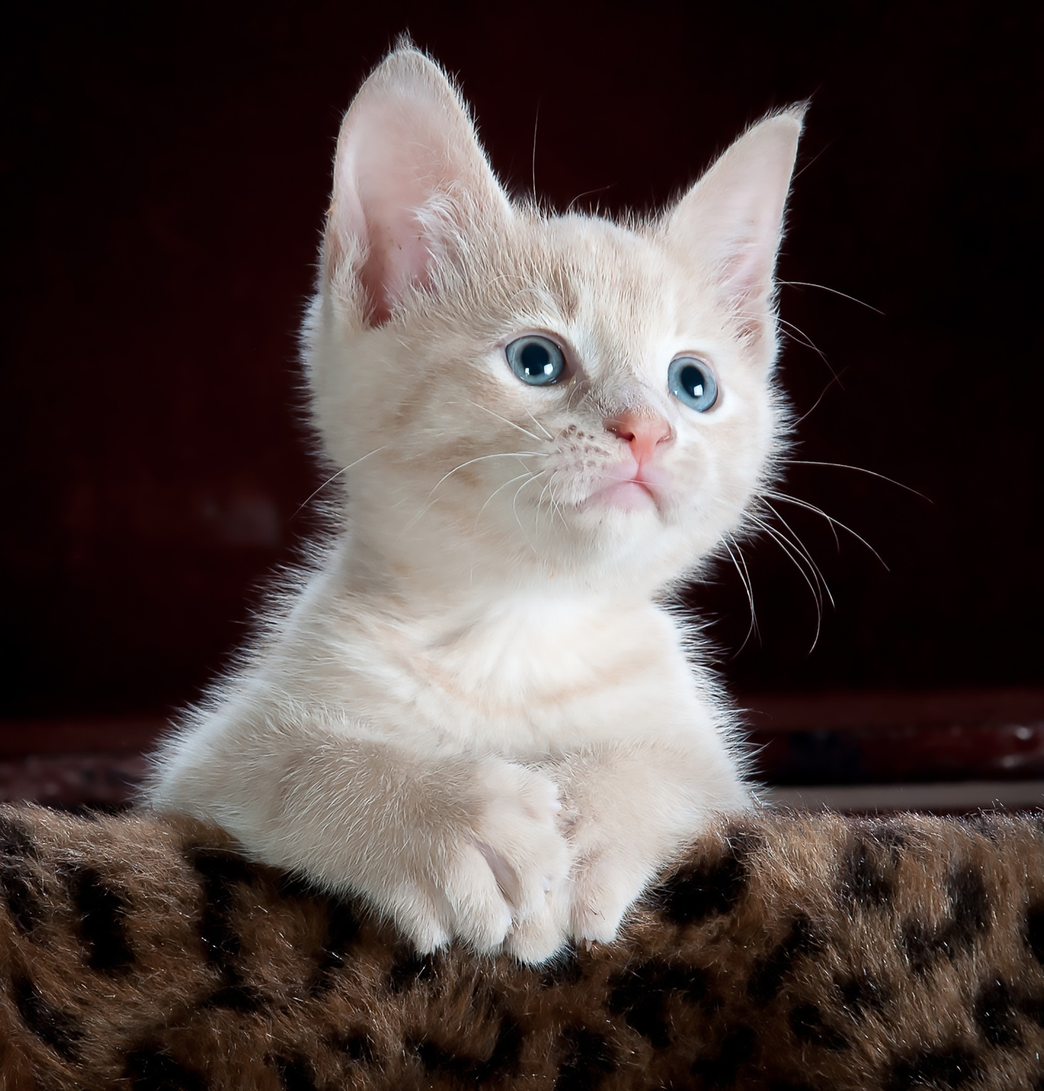
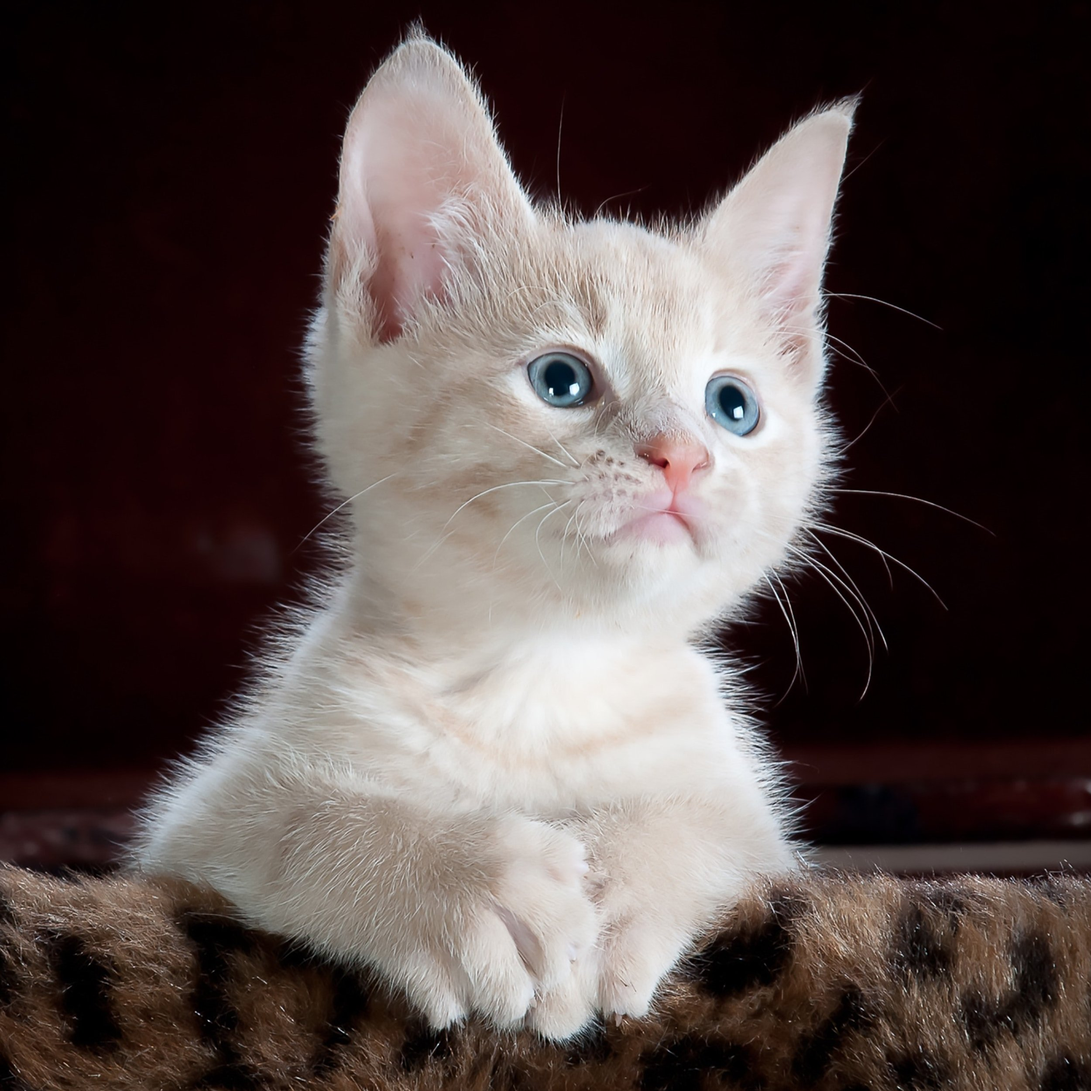
resize images and add cat feature section

diff --git a/index.html b/index.html
@@ -40,14 +40,42 @@
         />
       </div>
     </main>
-    <h2>Meet some of our cats!</h2>
-    <div>
-      <p>This is __</p>
-      <p>This is __</p>
-      <p>This is __</p>
-      <p>This is __</p>
-    </div>
+    <section class="meet__cats">
+      <div class="subhead">
+        <h2>Meet some of our cats!</h2>
+      </div>
 
+      <div class="container__cats">
+        <div class="images">
+          <img src="/images/spots.jpg" alt="cat" />
+          <p>
+            This is info about cat #1. We love this cat because he is fluffy and
+            he looks so silly
+          </p>
+        </div>
+        <div class="images">
+          <img src="/images/scout.jpg" alt="cat" />
+          <p>
+            This is info about cat #2. We love this cat because he is fluffy and
+            he looks so silly
+          </p>
+        </div>
+        <div class="images">
+          <img src="/images/joy.jpg" alt="cat" />
+          <p>
+            This is info about cat #3. We love this cat because he is fluffy and
+            he looks so silly
+          </p>
+        </div>
+        <div class="images">
+          <img src="/images/snow.jpg" alt="cat" />
+          <p>
+            This is info about cat #4. We love this cat because he is fluffy and
+            he looks so silly
+          </p>
+        </div>
+      </div>
+    </section>
     <div>
       <p>
         Lorem ipsum dolor sit amet consectetur adipisicing elit. Excepturi

diff --git a/styles.css b/styles.css
@@ -107,6 +107,59 @@ main {
   -webkit-transform: scale(1.1);
 }
 
+.meet__cats {
+  background-color: #fff;
+  padding-top: 100px;
+  padding-bottom: 100px;
+}
+
+/* images */
+.subhead {
+  display: flex;
+  justify-content: center;
+  margin-bottom: 100px;
+}
+
+.subhead h2 {
+  font-size: 36px;
+  font-weight: bold;
+  color: #1f2937;
+}
+
+.container__cats {
+  display: flex;
+  justify-content: center;
+}
+
+.images {
+  display: flex;
+  flex-direction: column;
+  align-items: center;
+  margin: 0 20px;
+  gap: 40px;
+  height: 600px;
+  transition: height 0.3s ease;
+}
+
+.images img {
+  width: 400px;
+  height: auto;
+  border-radius: 20px;
+  object-fit: cover;
+  transition: all 0.3s ease;
+}
+
+.images p {
+  margin-top: 0;
+  transition: all 0.3s ease;
+}
+
+.images img:hover {
+  transform: scale(1.2);
+  box-shadow: 0px 5px 10px rgba(0, 0, 0, 0.3);
+  margin-bottom: 20px;
+}
+
 /* everything to do with footer */
 
 footer {
